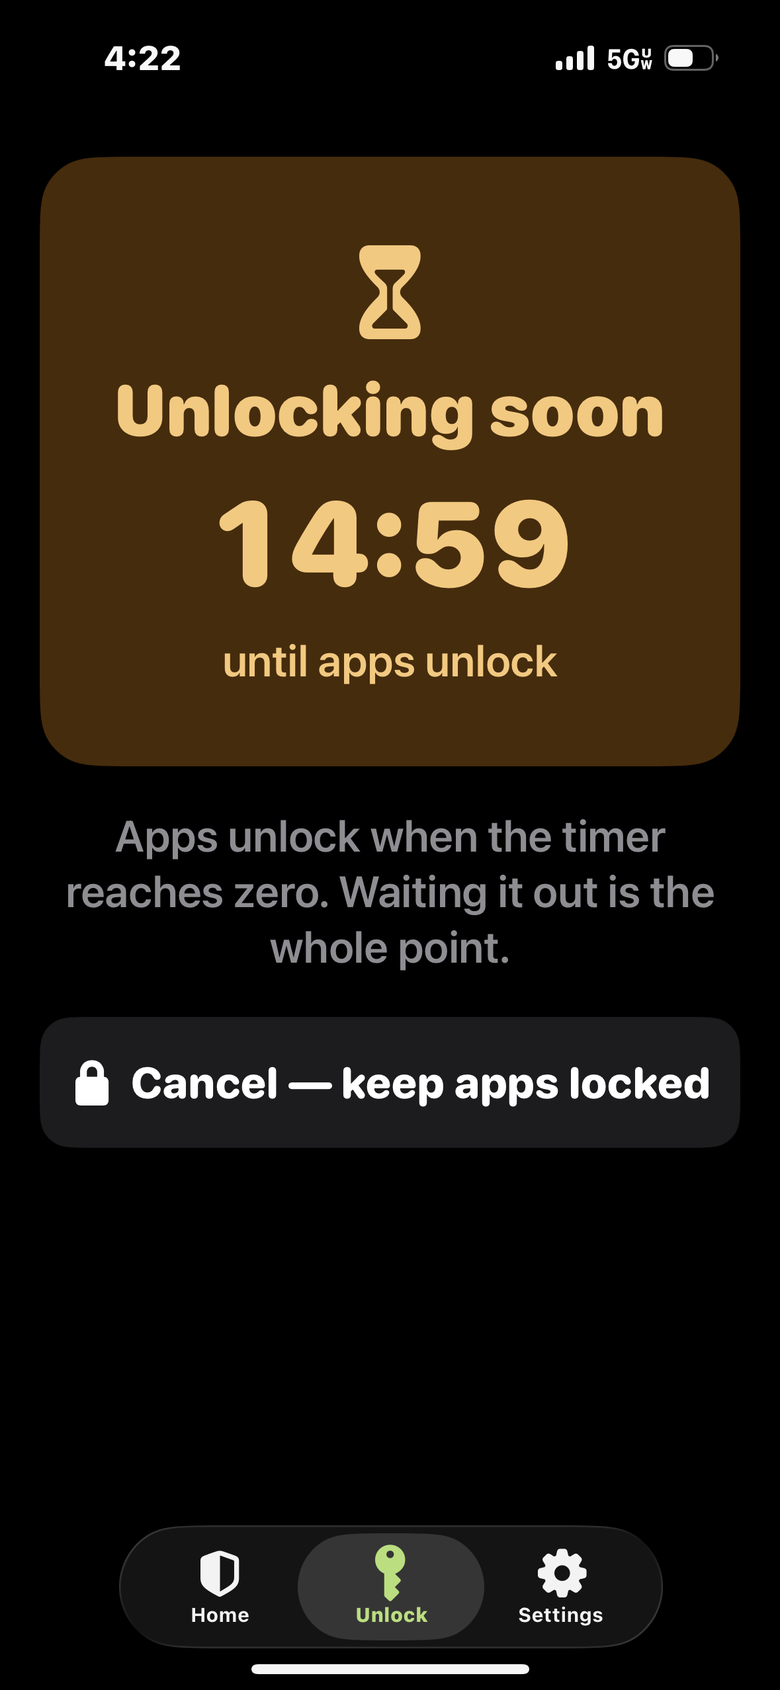
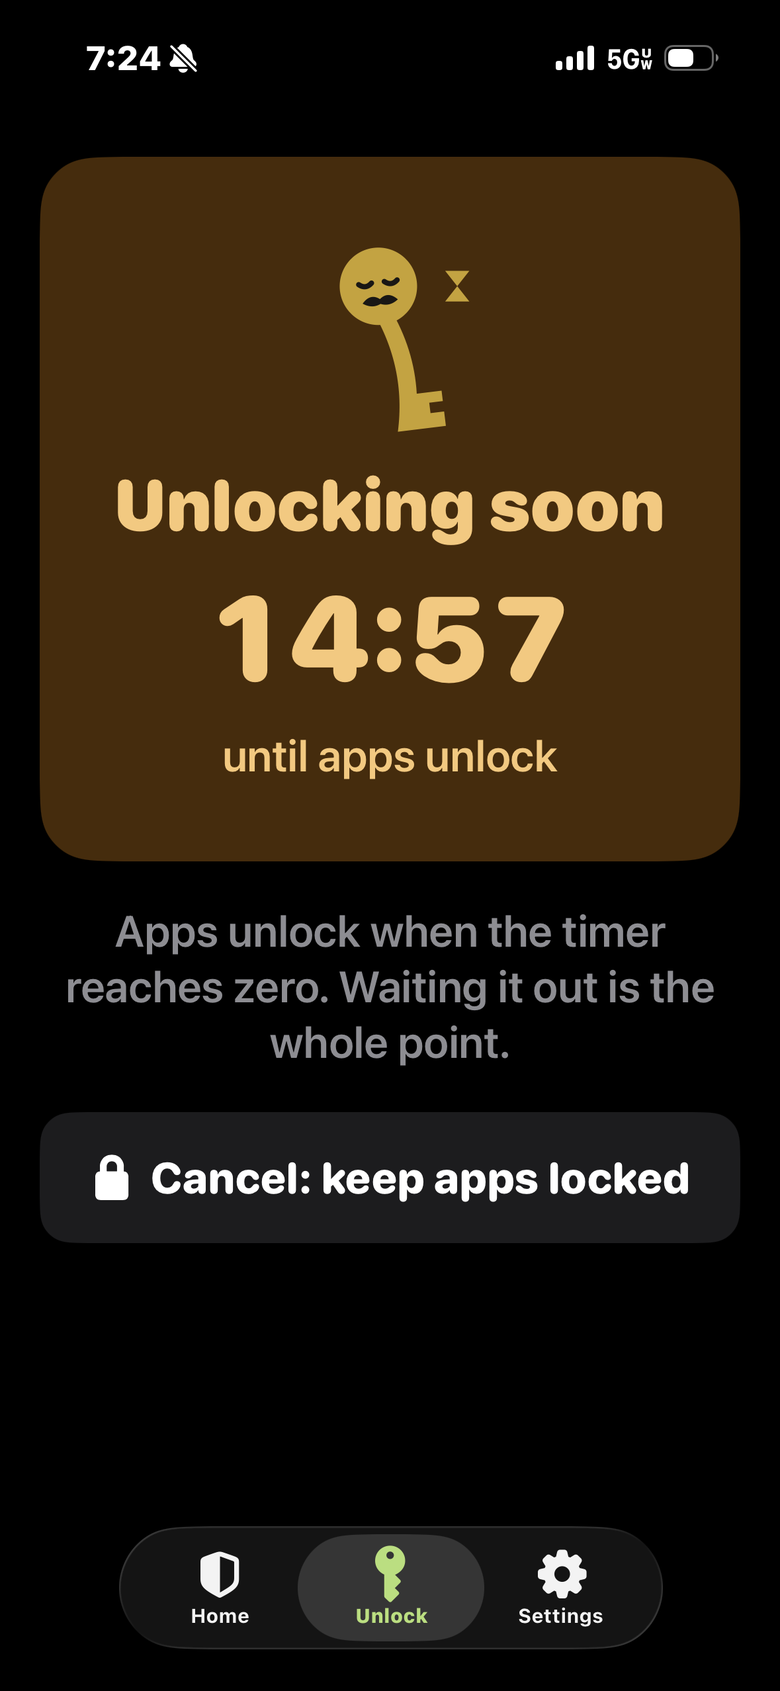
Site: the Stooped Key mascot and 2.3 screenshots
- Mascot in the home page hero (tap to wiggle, still under Reduce Motion), a
  three-pose strip under How it works (blocked, the wait, open), the no-key
  pose by the security key answer on Support, and a small one on Privacy.
- New 2.3 screenshots: Apps are blocked (replaces the old one that mentioned
  a sponsor), Unlocking soon, and a new Locks Again screen. Six screens now.
- Fixed the screenshot cards being squeezed by the browser's default figure
  margin, so the phones show at full width on desktop and phone.

Claude-Session: https://claude.ai/code/session_01YHQismpH3t7bxZBxzZYbVp

Changed region(s): [[0.0308, 0.1231, 0.9538, 0.7385], [0.3077, 0.9846, 0.6769, 1.0], [0.1231, 0.0, 0.2462, 0.0615]]

diff --git a/site/index.html b/site/index.html
@@ -53,6 +53,25 @@
   .cta-row .gh{color:var(--on-green);font-size:var(--fs-0);opacity:.9}
   .micro{margin-top:var(--s-4);font-size:var(--fs-0);color:var(--on-green-muted);max-width:48ch}
 
+  /* mascot: the Stooped Key */
+  .hero-mascot{width:112px;height:112px;margin:0 0 var(--s-3) -22px;transform-origin:50% 100%;-webkit-user-select:none;user-select:none;-webkit-tap-highlight-color:transparent}
+  @media(min-width:860px){.hero-mascot{width:128px;height:128px;margin-left:-26px}}
+  .hero-mascot.wiggle{animation:mascot-wiggle 1s ease-in-out}
+  @keyframes mascot-wiggle{
+    0%{transform:none}
+    18%{transform:translateY(-7px) rotate(-4deg)}
+    36%{transform:translateY(-9px) rotate(4deg)}
+    54%{transform:translateY(-4px) rotate(-3deg)}
+    72%{transform:translateY(0) rotate(2deg)}
+    88%{transform:rotate(-1deg)}
+    100%{transform:none}
+  }
+  .states{list-style:none;padding:0;margin:var(--s-7) 0 0;display:grid;grid-template-columns:repeat(3,1fr);gap:var(--s-3);text-align:center}
+  .states li{display:flex;flex-direction:column;align-items:center;min-width:0}
+  .states img{width:84px;height:84px}
+  @media(min-width:760px){.states{gap:var(--s-5)}.states img{width:104px;height:104px}}
+  .states span{display:block;margin-top:var(--s-2);font-size:var(--fs-0);color:var(--muted);max-width:20ch;line-height:1.4}
+
   /* phone frame */
   .phone-wrap{display:flex;justify-content:center;align-items:flex-end;padding-top:var(--s-4)}
   @media(min-width:860px){.phone-wrap{padding-top:0}}
@@ -66,8 +85,8 @@
   .screens h2{text-align:center}
   .screens .lead{text-align:center;margin-left:auto;margin-right:auto}
   .shots{display:grid;grid-auto-flow:column;grid-auto-columns:min(72vw,260px);gap:var(--s-4);overflow-x:auto;scroll-snap-type:x mandatory;padding:var(--s-6) var(--gutter) var(--s-4);margin:0 calc(-1*var(--gutter));-webkit-overflow-scrolling:touch;scrollbar-width:thin}
-  @media(min-width:900px){.shots{grid-auto-flow:row;grid-template-columns:repeat(5,1fr);grid-auto-columns:auto;overflow:visible;margin:0;padding:var(--s-6) 0 0}}
-  .shot{scroll-snap-align:center;text-align:center}
+  @media(min-width:900px){.shots{grid-auto-flow:row;grid-template-columns:repeat(6,1fr);grid-auto-columns:auto;overflow:visible;margin:0;padding:var(--s-6) 0 0}}
+  .shot{margin:0;scroll-snap-align:center;text-align:center}
   .shot .frame{aspect-ratio:1179/2556;border-radius:22px;overflow:hidden;background:var(--green-100);border:1px solid var(--line);box-shadow:var(--shadow);position:relative}
   .shot .frame img{width:100%;height:100%;object-fit:cover}
   .shot .frame .ph{position:absolute;inset:0;display:flex;align-items:center;justify-content:center;padding:16px;font-size:13px;color:var(--green-700)}
@@ -142,6 +161,7 @@
 <header class="hero">
   <div class="wrap">
     <div class="hero-copy">
+      <img id="hero-mascot" class="hero-mascot" src="/img/mascot/pose-locked.svg" alt="The Stooped Key, Pawl's mascot: a brass key with a bent back, two eyes and a small mustache." width="128" height="128">
       <span class="kicker"><img src="/img/pawl-mark.svg" alt="" width="22" height="22">Pawl: App Blocker With a Key</span>
       <h1>Block any app. Keep the key out of reach.</h1>
       <p class="sub">Pawl uses Apple Screen Time to block the apps and sites you choose. Nothing on the phone can lift the block. To unblock, you need a physical security key you have left somewhere else, and then a 15 minute wait.</p>
@@ -176,7 +196,7 @@
 <section id="screens" class="screens">
   <div class="wrap">
     <h2>What it looks like</h2>
-    <p class="lead">Five screens from the app. The first four are in the same order as the App Store listing.</p>
+    <p class="lead">Six screens from the app.</p>
     <div class="shots">
       <figure class="shot">
         <div class="frame">
@@ -194,17 +214,24 @@
       </figure>
       <figure class="shot">
         <div class="frame">
-          <picture><source srcset="/img/screens/03-wait.webp" type="image/webp"><img src="/img/screens/03-wait.png" alt="Pawl app screen. Wait It Out. 15 minute cooldown to unblock." width="780" height="1691" loading="lazy" onerror="this.parentElement.style.display='none';this.parentElement.nextElementSibling.style.display='flex'"></picture>
+          <picture><source srcset="/img/screens/04-block.webp" type="image/webp"><img src="/img/screens/04-block.png" alt="Pawl app screen. The key mascot stands in a green box above the words Apps are blocked. Below it a Tap to unlock button, and the line: Using your key starts a 15-minute wait. Apps stay locked until it's over, then re-lock on their own." width="780" height="1691" loading="lazy" onerror="this.parentElement.style.display='none';this.parentElement.nextElementSibling.style.display='flex'"></picture>
+          <div class="ph" style="display:none">04-block.png</div>
+        </div>
+        <figcaption><h3>Block Harder</h3><p>Make unblocking physically harder.</p></figcaption>
+      </figure>
+      <figure class="shot">
+        <div class="frame">
+          <picture><source srcset="/img/screens/03-wait.webp" type="image/webp"><img src="/img/screens/03-wait.png" alt="Pawl app screen. The key mascot with closed eyes and a small hourglass, above Unlocking soon, 14:57 until apps unlock. Below it: Apps unlock when the timer reaches zero. Waiting it out is the whole point. A button reads Cancel: keep apps locked." width="780" height="1691" loading="lazy" onerror="this.parentElement.style.display='none';this.parentElement.nextElementSibling.style.display='flex'"></picture>
           <div class="ph" style="display:none">03-wait.png</div>
         </div>
         <figcaption><h3>Wait It Out</h3><p>15 minute cooldown to unblock.</p></figcaption>
       </figure>
       <figure class="shot">
         <div class="frame">
-          <picture><source srcset="/img/screens/04-block.webp" type="image/webp"><img src="/img/screens/04-block.png" alt="Pawl app screen. Block Harder. Make unblocking physically harder." width="780" height="1691" loading="lazy" onerror="this.parentElement.style.display='none';this.parentElement.nextElementSibling.style.display='flex'"></picture>
-          <div class="ph" style="display:none">04-block.png</div>
+          <picture><source srcset="/img/screens/06-relock.webp" type="image/webp"><img src="/img/screens/06-relock.png" alt="Pawl app screen. The key mascot standing straight, above Apps unlocked, 43:32 until apps re-lock. Below it: Apps re-lock by themselves when the timer ends. There's nothing you need to do." width="780" height="1691" loading="lazy" onerror="this.parentElement.style.display='none';this.parentElement.nextElementSibling.style.display='flex'"></picture>
+          <div class="ph" style="display:none">06-relock.png</div>
         </div>
-        <figcaption><h3>Block Harder</h3><p>Make unblocking physically harder.</p></figcaption>
+        <figcaption><h3>Locks Again</h3><p>Apps re-lock on their own.</p></figcaption>
       </figure>
       <figure class="shot">
         <div class="frame">
@@ -226,6 +253,11 @@
       <div class="step"><span class="n">2</span><h3>Put the key somewhere else</h3><p>Unblocking needs a physical USB-C security key. Leave it at a friend's place, in your car, or anywhere that is not your pocket at 1am.</p></div>
       <div class="step"><span class="n">3</span><h3>Wait it out</h3><p>Even with the key in hand, unblocking starts a 15 minute wait. After a short open window (30 minutes by default), the block comes back on by itself.</p></div>
     </div>
+    <ul class="states" aria-label="The three states, in order">
+      <li><img src="/img/mascot/pose-locked.svg" alt="" aria-hidden="true" width="104" height="104" loading="lazy"><span>Apps blocked</span></li>
+      <li><img src="/img/mascot/pose-waiting.svg" alt="" aria-hidden="true" width="104" height="104" loading="lazy"><span>The 15 minute wait</span></li>
+      <li><img src="/img/mascot/pose-open.svg" alt="" aria-hidden="true" width="104" height="104" loading="lazy"><span>Open for a while, then they lock again</span></li>
+    </ul>
   </div>
 </section>
 
@@ -319,5 +351,21 @@
   </div>
 </footer>
 
+<script>
+  /* A small wiggle when the hero mascot is tapped or clicked. Nothing else. */
+  (function(){
+    var m=document.getElementById('hero-mascot');
+    if(!m)return;
+    var t;
+    m.addEventListener('click',function(){
+      m.classList.remove('wiggle');
+      void m.offsetWidth;
+      m.classList.add('wiggle');
+      clearTimeout(t);
+      t=setTimeout(function(){m.classList.remove('wiggle');},1100);
+    });
+    m.addEventListener('animationend',function(){m.classList.remove('wiggle');});
+  })();
+</script>
 </body>
 </html>

diff --git a/site/support.html b/site/support.html
@@ -44,6 +44,10 @@
   th,td{border:1px solid var(--line);padding:9px 11px;text-align:left;vertical-align:top}
   th{background:var(--green-100)}
   code{background:var(--green-100);padding:1px 6px;border-radius:5px;font-size:14px}
+  .key-q{display:flex;align-items:center;gap:var(--s-3)}
+  .key-q>div{flex:1;min-width:0}
+  .key-q img{flex:none;width:72px;height:72px;margin-top:var(--s-6)}
+  @media(min-width:640px){.key-q{align-items:flex-end;gap:var(--s-6)}.key-q img{width:104px;height:104px;margin:0 0 var(--s-4)}}
   footer{background:var(--green-900);color:var(--on-green-muted);font-size:var(--fs-0)}
   footer .wrap{padding:var(--s-6) var(--gutter);display:flex;flex-wrap:wrap;gap:var(--s-3) var(--s-5);align-items:center}
   footer a{color:var(--on-green);text-decoration:none;opacity:.9}
@@ -100,9 +104,14 @@
   icon. To remove it completely: open <strong>Settings → Screen Time</strong>, turn off Screen Time (or
   remove Pawl under “Apps with Screen Time Access”), then delete Pawl from your Home Screen.</p>
 
-  <h2>What security key do I need?</h2>
-  <p>Any FIDO2 security key with a USB-C plug works. Several makers sell them, and they need no app or account.
-  You buy the key separately; Pawl does not sell keys and does not take a cut.</p>
+  <div class="key-q">
+    <div>
+      <h2>What security key do I need?</h2>
+      <p>Any FIDO2 security key with a USB-C plug works. Several makers sell them, and they need no app or account.
+      You buy the key separately; Pawl does not sell keys and does not take a cut.</p>
+    </div>
+    <img src="/img/mascot/pose-nokey.svg" alt="" aria-hidden="true" width="104" height="104" loading="lazy">
+  </div>
 
   <h2>Is Pawl free?</h2>
   <p>Yes. Blocking, the security key, the cooling-off wait, your streak, and the urge tools are free and stay

diff --git a/site/privacy.html b/site/privacy.html
@@ -44,6 +44,8 @@
   th,td{border:1px solid var(--line);padding:9px 11px;text-align:left;vertical-align:top}
   th{background:var(--green-100)}
   code{background:var(--green-100);padding:1px 6px;border-radius:5px;font-size:14px}
+  .title-row{display:flex;align-items:center;gap:var(--s-3)}
+  .title-row img{flex:none;width:56px;height:56px;margin-left:-10px}
   footer{background:var(--green-900);color:var(--on-green-muted);font-size:var(--fs-0)}
   footer .wrap{padding:var(--s-6) var(--gutter);display:flex;flex-wrap:wrap;gap:var(--s-3) var(--s-5);align-items:center}
   footer a{color:var(--on-green);text-decoration:none;opacity:.9}
@@ -69,7 +71,10 @@
 
 <main>
 
-  <h1>Privacy Policy</h1>
+  <div class="title-row">
+    <img src="/img/mascot/pose-locked.svg" alt="" aria-hidden="true" width="56" height="56">
+    <h1>Privacy Policy</h1>
+  </div>
   <p class="updated">Last updated: October 19, 2026</p>
 
   <p>Pawl is a self-control tool that helps you stop something you're struggling with, such as gambling, adult
